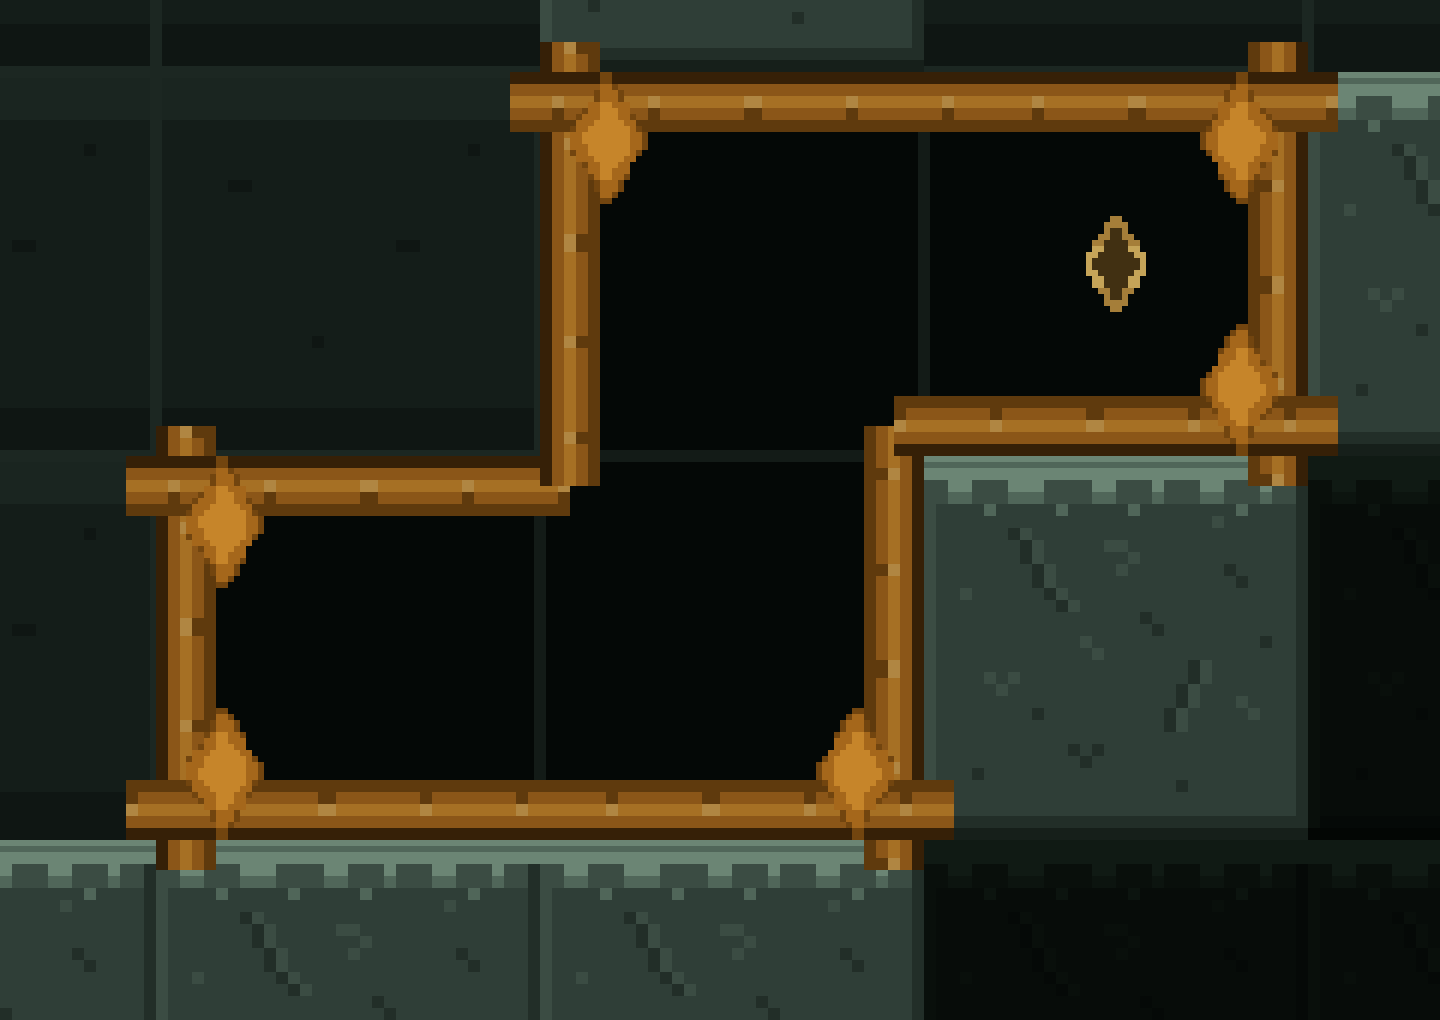
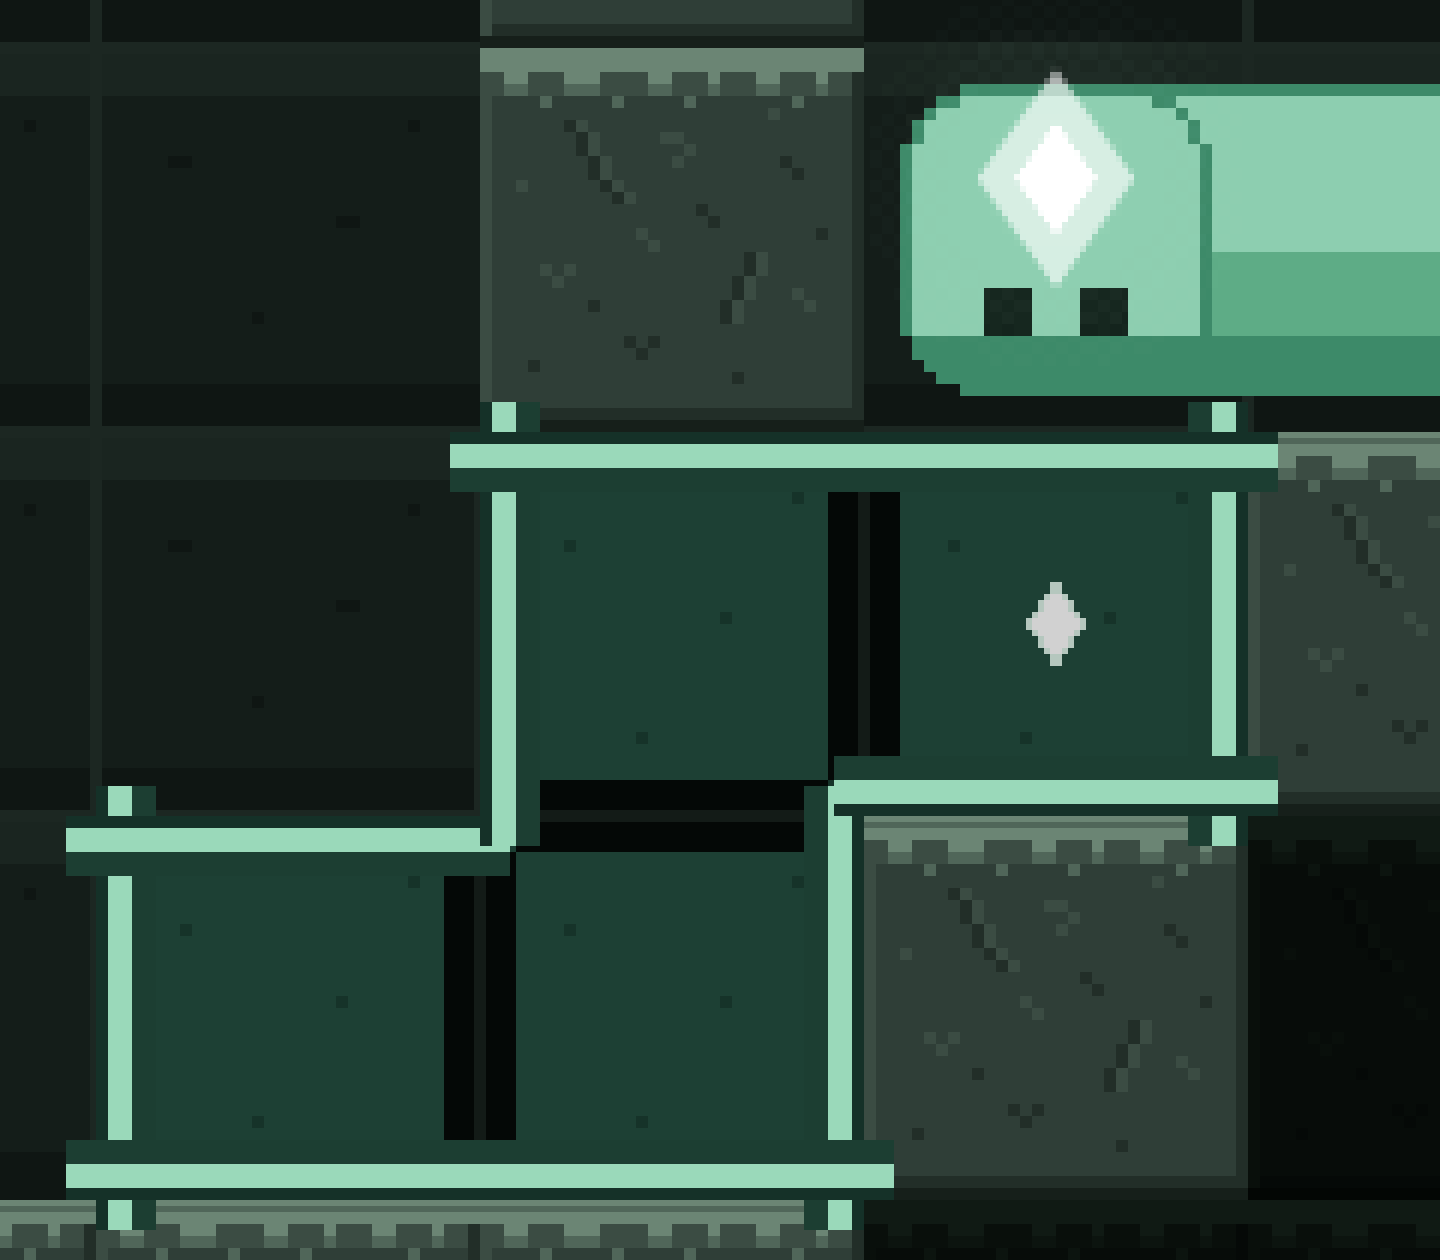
사장님 그림대로 — 슬라임의 마름모 = 홈의 마름모
그림에 "=" 로 적어 주셨다. 같은 것을 두 군데 두면
"여기에 넣어라"가 설명 없이 읽힌다. 지금까지 열쇠(놋쇠)와
열쇠구멍(빈 것)을 다르게 그려서 그 연결이 약했다.

슬라임
  흰 마름모를 **이마 가운데**로 (가는 쪽으로 안 쏠린다 — 홈의 것도 가운데라
     둘이 같은 자리에 있어야 짝이 보인다)
  눈 둘을 되살렸다. 마름모 아래
  🔴 머리를 이음매(5)보다 위(6)로 — 이음매가 얼굴을 덮어 눈이 사라졌다.
     마디 옆면에 어두운 윤곽이 없어서 위로 올려도 경계가 안 생긴다

홈
  놋쇠 장식·레일을 걷어내고 **얇은 밝은 선 + 진한 초록 속 + 흰 마름모**
  틀이 화려해지면 정작 봐야 하는 마름모를 이긴다

🔴 그림 위에 옛 색을 덧칠하던 곳 셋을 찾아 껐다
  홈 속에 옛 검정 네모가 덮여 있어 진한 초록이 안 보였다
  틀 색을 **매 프레임 놋쇠로** 다시 칠하고 있었다 — 지을 때 흰색으로 둔 게 소용없었다
  칸 나누는 선이 검정이라 칸 사이가 구멍처럼 보였다

  ⚠ 도트로 바꿀 때마다 같은 실수를 한다 — **그리는 곳과 칠하는 곳이 따로 있다.**
     지을 때 한 번, 매 프레임 한 번. 둘 다 고쳐야 한다.

diff --git a/game/Assets/Scripts/SnakeController.cs b/game/Assets/Scripts/SnakeController.cs
@@ -898,11 +898,9 @@ namespace SlimeEscape
                 //  꾺이는 모서리에 장식을 박는다 — 참고 그림에서 틀을 틀로 만드는 것이 이것이다.
                 //  🔴 모서리 밖으로 반쯤 나가 있으면 핀처럼 보인다.
                 //     틀 **위에** 얙히는 자리로 당긴다 (09-02 화면).
-                float g = 0.5f - GemW * 0.80f;
-                if (!nU && !nL) Gem(c, dr, new Vector2(-g,  g));
-                if (!nU && !nR) Gem(c, dr, new Vector2( g,  g));
-                if (!nD && !nL) Gem(c, dr, new Vector2(-g, -g));
-                if (!nD && !nR) Gem(c, dr, new Vector2( g, -g));
+                //  ⚠ 모서리 장식은 걷어냈다 (09-02 사장님 그림).
+                //     틀이 화려해지면 정작 봐야 하는 **마름모**를 이긴다.
+                //     그리는 함수(Gem)는 남겨둔다 — 되돌리기 쉽게.
 
                 //  틀 안을 칸으로 나눈다 — "몇 칸을 채우는가"가 저절로 세어진다
                 if (nR) Seam(c, new Vector2(0.5f, 0f), new Vector3(0.035f, 0.86f, 1));
@@ -935,6 +933,9 @@ namespace SlimeEscape
                 if (Art.Has("rail")) lip.enabled = false;
                 _holeLips[c] = lip;
 
+                //  🔴 그림(slot)이 칸을 이미 채운다. 그 위에 옷 검정 네모를 덮으면
+                //     사장님이 고르신 진한 초록이 안 보인다 (09-02 화면).
+                inner.enabled = !Art.Has("slot");
                 _holes[c] = inner;
                 _holeEdges[c] = edge;
 
@@ -1153,7 +1154,9 @@ namespace SlimeEscape
                 //     칸 길이에 딱 맞추면 오목한 모서리에서 두 레일이 **점으로만 만나**
                 //     작은 홈이 남는다 — 외벽이 끊겨 보인다 (09-02 사장님).
                 //     길이만 늘리니 두께는 그대로다 (돌리기 전 가로가 띄의 길이 방향).
-                sr.transform.localScale = new Vector3(1f + 5f / 32f, 1f, 1f);
+                //  얇은 선이라 조금만 겹쳐도 모서리가 덤인다.
+                //  많이 뿑으면 볼록 모서리에 **돌기**가 남는다 (09-02 화면).
+                sr.transform.localScale = new Vector3(1f + 3f / 32f, 1f, 1f);
                 //  🔴 좌우가 바뀌어 있었다 (09-02 사장님: "외벽이 안 이어져있어").
                 //     유니티의 +90° 는 **반시계** 방향이라 윗쪽 띄가 **왼쪽**으로 간다.
                 //     왼쪽에 270° · 오른쪽에 90° 를 줘서 레일이 엉뚱한 변에 붙었고,
@@ -1198,7 +1201,10 @@ namespace SlimeEscape
             var sr = NewSprite("Seam", 0);
             sr.transform.position = CellPos(cell) + off;
             sr.transform.localScale = scale;
-            sr.color = Color.Lerp(SlotLine, HoleCol, 0.55f);
+            //  🔴 검정으로 두면 칸 사이가 **구멍처럼** 보인다 (09-02 화면).
+            //     홈 속보다 한 단만 어둡게 — 칸을 세는 데만 쓰이면 된다.
+            sr.color = Art.Has("slot") ? new Color(0.72f, 0.72f, 0.72f, 0.55f)
+                                       : Color.Lerp(SlotLine, HoleCol, 0.55f);
         }
 
         void AddRim(int cell, Vector2 off, Vector3 scale)
@@ -1422,8 +1428,11 @@ namespace SlimeEscape
                 // 🔴 **머리가 맨 위**에 와야 한다. 예전엔 차례를 번갈아 매겨서
                 //    뒤쪽 몸이 머리를 덮었다 — 얼굴이 뒤로 밀려 보였다 (09-02 사장님).
                 //    머리 4 · 몸 3 · 이음매 2 로 못박는다.
+                //  🔴 머리를 이음매(5)보다 **위**로. 안 그러면 이음매가 얼굴을 덮어
+                //     눈이 사라진다 (09-02 화면). 마디 좁은 변에는 어두운 윤곽이 없어서
+                //     머리를 위로 올려도 이음매와 경계가 안 생긴다.
                 bool isHead = _segs.Count == 0;
-                var sr = NewSprite("Seg", isHead ? 4 : 3, isHead ? "head" : "body");
+                var sr = NewSprite("Seg", isHead ? 6 : 3, isHead ? "head" : "body");
                 _segs.Add(sr);
             }
             for (int i = 0; i < _segs.Count; i++)
@@ -1502,12 +1511,22 @@ namespace SlimeEscape
             {
                 if (fb.sr == null) continue;
                 bool fSpent = (_st.Dm & (1 << fb.door)) != 0;
-                var rc = fb.gem ? RailOf(fb.door) : RailDimOf(fb.door);
-                if (!fb.gem) rc = Color.Lerp(rc, RailOf(fb.door), 0.55f);
+                //  🔴 그림이 있으면 색을 안 입힌다. 여기서 놓치면
+                //     지을 때 흰색으로 둔 것을 **매 프레임 다시 놋쇠로** 덮어쓴다 (09-02).
+                var rc = Art.Has("rail") ? Color.white
+                       : fb.gem ? RailOf(fb.door)
+                       : Color.Lerp(RailDimOf(fb.door), RailOf(fb.door), 0.55f);
                 if (!fSpent)
                 {
-                    rc = Color.Lerp(rc, Color.white,
-                                    0.16f * (0.5f + 0.5f * Mathf.Sin(Time.time * 1.6f)));
+                    //  그림이면 숨쉬기를 **어둡게 깔았다 밝히는** 방식으로 —
+                    //  흰색을 더 하얀게 만들 수는 없기 때문이다.
+                    float br = Art.Has("rail")
+                        ? 0.80f + 0.20f * (0.5f + 0.5f * Mathf.Sin(Time.time * 1.6f))
+                        : 1f;
+                    rc = Art.Has("rail")
+                        ? new Color(rc.r * br, rc.g * br, rc.b * br, rc.a)
+                        : Color.Lerp(rc, Color.white,
+                                     0.16f * (0.5f + 0.5f * Mathf.Sin(Time.time * 1.6f)));
                     // 🔴 힌트 1 — 먼저 채울 틀만 깜빡인다.
                     //    글로 "왼쪽 아래요" 하는 것보다 빠르다.
                     if (_hint >= 1 && fb.door == _hintDoor)
@@ -1559,9 +1578,15 @@ namespace SlimeEscape
                     //     "몸이 지형이 됐다"는 규칙이 끊긴다 — 딛고 설 수 있다는 신호도 약해진다.
                     var want = Art.Get(spent ? "spent" : "slot");
                     if (want != null && e.sprite != want) e.sprite = want;
+                    //  🔴 그림이 있으면 덧칠하지 않는다. 옆에 어두운 색을 곱하면
+                    //     사장님이 고르신 진한 초록이 거의 검정으로 죽는다 (09-02 화면).
+                    //     덤은 칸만 한 단 밝혀서 "여기 들어갔다"를 알린다.
+                    bool hasSlot = Art.Has(spent ? "spent" : "slot");
                     e.color = spent
-                        ? (Art.Has("spent") ? Color.white : Color.Lerp(SlotLine, SpentCol, SuckT))
-                        : covered ? Color.Lerp(SlotLine, fill, 0.55f) : SlotLine;
+                        ? (hasSlot ? Color.white : Color.Lerp(SlotLine, SpentCol, SuckT))
+                        : hasSlot
+                            ? (covered ? new Color(1.25f, 1.25f, 1.25f) : Color.white)
+                            : (covered ? Color.Lerp(SlotLine, fill, 0.55f) : SlotLine);
                 }
             }
             // 🔴 채워진 홈의 심 표시는 사라진다 — 몸이 빨려드는 동안 같이 흐려진다
@@ -2601,24 +2626,30 @@ namespace SlimeEscape
             float lit = fit ? 0.55f + 0.45f * Mathf.Sin(Time.time * 9f)
                             : Mathf.Max(spark, 0.22f * breathe);
 
-            //  이마에, 가는 쪽으로 조금 — 얼굴에 붙어 있어야 "이게 내 열쇠"로 읽힌다
-            var at = hp + new Vector3(look.x * 0.07f * s, 0.26f * s + look.y * 0.03f * s, 0f);
-            //  🔴 위아래로 긴 마름모. 가로세로를 따로 준다
-            float kw = 0.30f * s * (1f + 0.06f * lit);
-            float kh = 0.52f * s * (1f + 0.10f * lit);
+            //  🔴 사장님 그림대로 **이마 가운데**. 가는 쪽으로 쓸리지 않는다 —
+            //     홈의 마름모도 가운데에 있으니, 둘이 **같은 자리**에 있어야 짝이 보인다.
+            var at = hp + new Vector3(0f, 0.16f * s, 0f);
+            float kw = 0.42f * s * (1f + 0.05f * lit);
+            float kh = 0.58f * s * (1f + 0.08f * lit);
 
             _keyGlow.transform.position = at;
             _keyGlow.transform.localScale = new Vector3(kh * 1.9f, kh * 1.9f, 1f);
-            var gc = CoreCol; gc.a = 0.10f + 0.26f * lit;
+            var gc = Art.Has("key") ? new Color(0.85f, 1f, 0.93f) : CoreCol;
+            gc.a = 0.10f + 0.26f * lit;
             _keyGlow.color = gc;
 
             _keyRing.transform.position = at;
             _keyRing.transform.localScale = new Vector3(kw, kh, 1f);
-            _keyRing.color = Color.Lerp(CoreRing, CoreCol, 0.35f + 0.65f * lit);
+            //  그림이 이미 흰색이다. 번짝임은 **밝기로만** 준다.
+            _keyRing.color = Art.Has("key")
+                ? new Color(1f, 1f, 1f, 0.55f + 0.45f * lit)
+                : Color.Lerp(CoreRing, CoreCol, 0.35f + 0.65f * lit);
 
             _keyCore.transform.position = at;
             _keyCore.transform.localScale = new Vector3(kw * 0.52f, kh * 0.52f, 1f);
-            _keyCore.color = Color.Lerp(CoreCol, Color.white, 0.75f * lit);
+            _keyCore.color = Art.Has("key")
+                ? Color.white
+                : Color.Lerp(CoreCol, Color.white, 0.75f * lit);
         }
 
         void CloseIntro()

diff --git a/tools/art.py b/tools/art.py
@@ -38,6 +38,15 @@ PAL = {
     # 조각 — 주황
     'u': (0x7a, 0x40, 0x06), 'v': (0xc4, 0x69, 0x04),
     'w': (0xf3, 0x8a, 0x04), 'x': (0xff, 0xc0, 0x5c),
+    # 🔴 사장님 그림의 색 (09-02)
+    'S': (0x1d, 0x40, 0x34),   # 홈 속 — 진한 초록
+    'T': (0x16, 0x33, 0x29),   # 홈 속 아래
+    'U': (0x9f, 0xe0, 0xc0),   # 홈 테 — 얇고 밝은 선
+    'W': (0xff, 0xff, 0xff),   # 마름모 — 슬라임과 홈이 같은 것을 쓴다
+    'V': (0xdd, 0xf3, 0xe8),   # 마름모 그늘
+    'Z': (0x14, 0x24, 0x1d),   # 눈
+    #  흰빛 세 단 — 머리 마름모 뒤에 깔린다
+    'J': (0xdd, 0xf3, 0xe8, 0x66), 'K': (0xdd, 0xf3, 0xe8, 0x38), 'L': (0xdd, 0xf3, 0xe8, 0x16),
     # 별 — 놋쇠 기계와 안 섞이게 창백한 금빛
     'A': (0x8a, 0x76, 0x3a), 'B': (0xd8, 0xc2, 0x76),
     'C': (0xf5, 0xe6, 0xae), 'D': (0xff, 0xfb, 0xef),
@@ -175,12 +184,18 @@ def body():
 
 
 def head():
-    """머리. 조금 더 밝다 — 어디가 앞인지 색으로도 말해준다."""
-    g = body()
+    """
+    머리. 🔴 눈 둘을 되살렸다 (09-02 사장님 그림).
+    마름모는 코드가 따로 얹는다 — 번짝여야 하기 때문이다.
+    그래서 여기에는 **눈만** 찍는다. 눈은 마름모 **아래**에 둔다.
+    """
+    g = _blob(2.5)
     for y in range(N):
         for x in range(N):
             if g[y][x] == 'q':
                 g[y][x] = 'r'
+    for x0 in (10, 18):
+        box(g, x0, 20, x0 + 3, 23, 'Z')
     return g
 
 
@@ -208,55 +223,31 @@ def link():
     return g
 
 
-def key():
-    """머리에 박힌 열쇠. 위아래로 긴 마름모. 번쩍임은 코드가 입힌다."""
+def _diamond(w=8.5, h=12.0, fill='W', edge='V'):
+    """
+    🔴 슬라임의 열쇠와 홈의 구멍이 **같은 마름모**다 (09-02 사장님 그림).
+    같은 것을 두 군데 두면 "여기에 넣어라"가 설명 없이 읽힌다 —
+    그림에 "=" 로 적어 주셨던 그 뜻이다.
+    """
     g = blank(' ')
-    cx = N // 2
+    c = (N - 1) / 2.0
     for y in range(N):
-        #  |x|/w + |y|/h <= 1  가 마름모
-        h = (N - 2) / 2.0
-        w = (N - 2) / 2.0 * 0.52
-        span = w * (1 - abs(y - (N - 1) / 2.0) / h)
-        if span <= 0:
-            continue
         for x in range(N):
-            d = abs(x - (N - 1) / 2.0)
-            if d > span:
+            m = abs(x - c) / w + abs(y - c) / h
+            if m > 1.0:
                 continue
-            g[y][x] = 'l'
-            if d > span - 1.1:
-                g[y][x] = 'k'
-            elif y < N * 0.45:
-                g[y][x] = 'm'
-    box(g, cx - 1, 9, cx, 13, 'n')       # 손으로 얹은 빛
+            g[y][x] = edge if m > 0.80 else fill
     return g
+
+
+def key():
+    """머리에 박힌 마름모. 번짝임은 코드가 입힌다."""
+    return _diamond()
 
 
 def core():
-    """
-    열쇠 **구멍**. 🔴 머리에 박힌 열쇠와 **같은 마름모**여야 짝이 맞는다.
-    앞서 네모로 그렸더니 구멍이 아니라 갈색 상자로 보였다 (09-02).
-    열쇠는 꽉 찼으니 구멍은 비어 있어야 한다 — 테만 놋쇠, 속은 어둡게.
-    """
-    g = blank(' ')
-    cy = (N - 1) / 2.0
-    h = (N - 2) / 2.0
-    w = h * 0.62
-    for y in range(N):
-        span = w * (1 - abs(y - cy) / h)
-        if span <= 0:
-            continue
-        for x in range(N):
-            d = abs(x - cy)
-            if d > span:
-                continue
-            if d > span - 2.6:
-                g[y][x] = 'l'          # 놋쇠 테
-                if y < N * 0.42:
-                    g[y][x] = 'm'      # 위쪽 테가 빛을 받는다
-            else:
-                g[y][x] = 'j'          # 파인 속
-    return g
+    """홈의 마름모. 슬라임 머리의 것과 **똑같다.**"""
+    return _diamond()
 
 
 def food():
@@ -369,35 +360,26 @@ def spent():
 
 
 def slot():
-    """
-    홈 틀 **안 바닥**. 🔴 굴 바닥보다 확실히 어두워야 한다 —
-    비슷하면 "여기가 목표다"가 안 서고 그냥 빈 칸으로 보인다 (09-02 화면).
-    눈에 띄되 시끄럽지 않게: 어두운 바탕에 아주 옅은 결만 둔다.
-    """
-    g = blank('1')
-    for y in range(2, N, 6):        # 가로로 옅은 결 — 파낸 자국처럼
-        box(g, 1, y, N - 2, y, '2')
+    """홈 틀 **안 바닥**. 진한 초록 — 눈에 띄되 시끄럽지 않게."""
+    #  🔴 아래에 어두운 띄를 두었더니 칸마다 **가로줄**이 생겼다 (09-02 화면).
+    #     홈이 여러 칸이면 한 덩어리로 보여야 한다 — 평평하게 둔다.
+    g = blank('S')
     for x, y in [(7, 9), (20, 15), (13, 25), (26, 5)]:
-        stamp(g, [(x, y, '2')])
+        stamp(g, [(x, y, 'T')])
     return g
 
 
 def rail():
     """
-    홈 틀의 레일 한 마디. 🔴 **위쪽 변**에 그린다 — 코드가 돌려서 네 변에 쓴다.
+    홈 틀의 테 한 마디. 🔴 **윗쪽 변**에 그리고 코드가 돌려 네 변에 쓴다.
 
-    한 칸을 꽉 채우면 안 된다. 레일은 덩어리의 **바깥선**이라 칸 가장자리에
-    딱 붙어야 하고, 안쪽으로 파고들면 홈이 좁아 보인다 (09-02 화면).
-    그래서 위에서 5픽셀만 쓰고 나머지는 비운다.
+    사장님 그림대로 **얇고 밝은 선** 한 줄로. 놋쇠 장식은 걷어냈다 —
+    틀이 화려해지면 정작 봐야 하는 **마름모**를 이긴다.
     """
     g = blank(' ')
-    box(g, 0, 0, N - 1, 0, 'j')     # 바깥 한 겹은 어둡게 — 돌과 경계가 선다
-    box(g, 0, 1, N - 1, 1, 'l')
-    box(g, 0, 2, N - 1, 2, 'm')     # 빛을 받는 면
-    box(g, 0, 3, N - 1, 3, 'l')
-    box(g, 0, 4, N - 1, 4, 'k')     # 안쪽으로 갈수록 그늘
-    for x in range(3, N, 7):        # 손으로 찍은 못
-        stamp(g, [(x, 2, 'n'), (x, 3, 'k')])
+    box(g, 0, 0, N - 1, 0, 'T')     # 바깥 한 겹은 어둡게 — 돌과 경계가 선다
+    box(g, 0, 1, N - 1, 2, 'U')     # 밝은 선
+    box(g, 0, 3, N - 1, 4, 'S')     # 안쪽은 홈 속과 이어진다
     return g
 
 
@@ -490,30 +472,13 @@ def star_frames(n=6):
 
 
 def core_frames(n=6):
-    """열쇠 구멍 — 놋쇠 테에 빛이 한 바퀴 돈다. 여기로 오라는 신호다."""
-    out = []
-    for i in range(n):
-        g = blank(' ')
-        cy = (N - 1) / 2.0
-        h = (N - 2) / 2.0
-        w = h * 0.62
-        lit = i / float(n)                     # 빛이 도는 자리 (위에서 아래로)
-        for y in range(N):
-            span = w * (1 - abs(y - cy) / h)
-            if span <= 0:
-                continue
-            for x in range(N):
-                d = abs(x - cy)
-                if d > span:
-                    continue
-                if d > span - 2.6:
-                    #  세로 위치가 빛과 가까우면 밝아진다
-                    near = abs((y / float(N)) - lit)
-                    g[y][x] = 'm' if near < 0.16 else 'l'
-                else:
-                    g[y][x] = 'j'
-        out.append(g)
-    return out
+    """
+    홈의 마름모 — 숨만 쉰다.
+    🔴 슬라임 머리의 것과 **같은 모양·같은 색**이어야 한다 (09-02 사장님 그림).
+       둘이 달라지면 "이걸 저기에" 가 안 읽힌다.
+    """
+    k = [1.0, 1.05, 1.09, 1.05, 1.0, 0.96]
+    return [_diamond(8.5 * k[i % 6], 12.0 * k[i % 6]) for i in range(n)]
 
 
 def gem_frames(n=6):
@@ -562,7 +527,7 @@ FRAMES = {
     'star': star_frames(),
     'core': core_frames(),
     'gem': gem_frames(),
-    'key_glow': glow_frames('ioy'),
+    'key_glow': glow_frames('JKL'),
     'star_glow': glow_frames('IOY'),
 }
 
